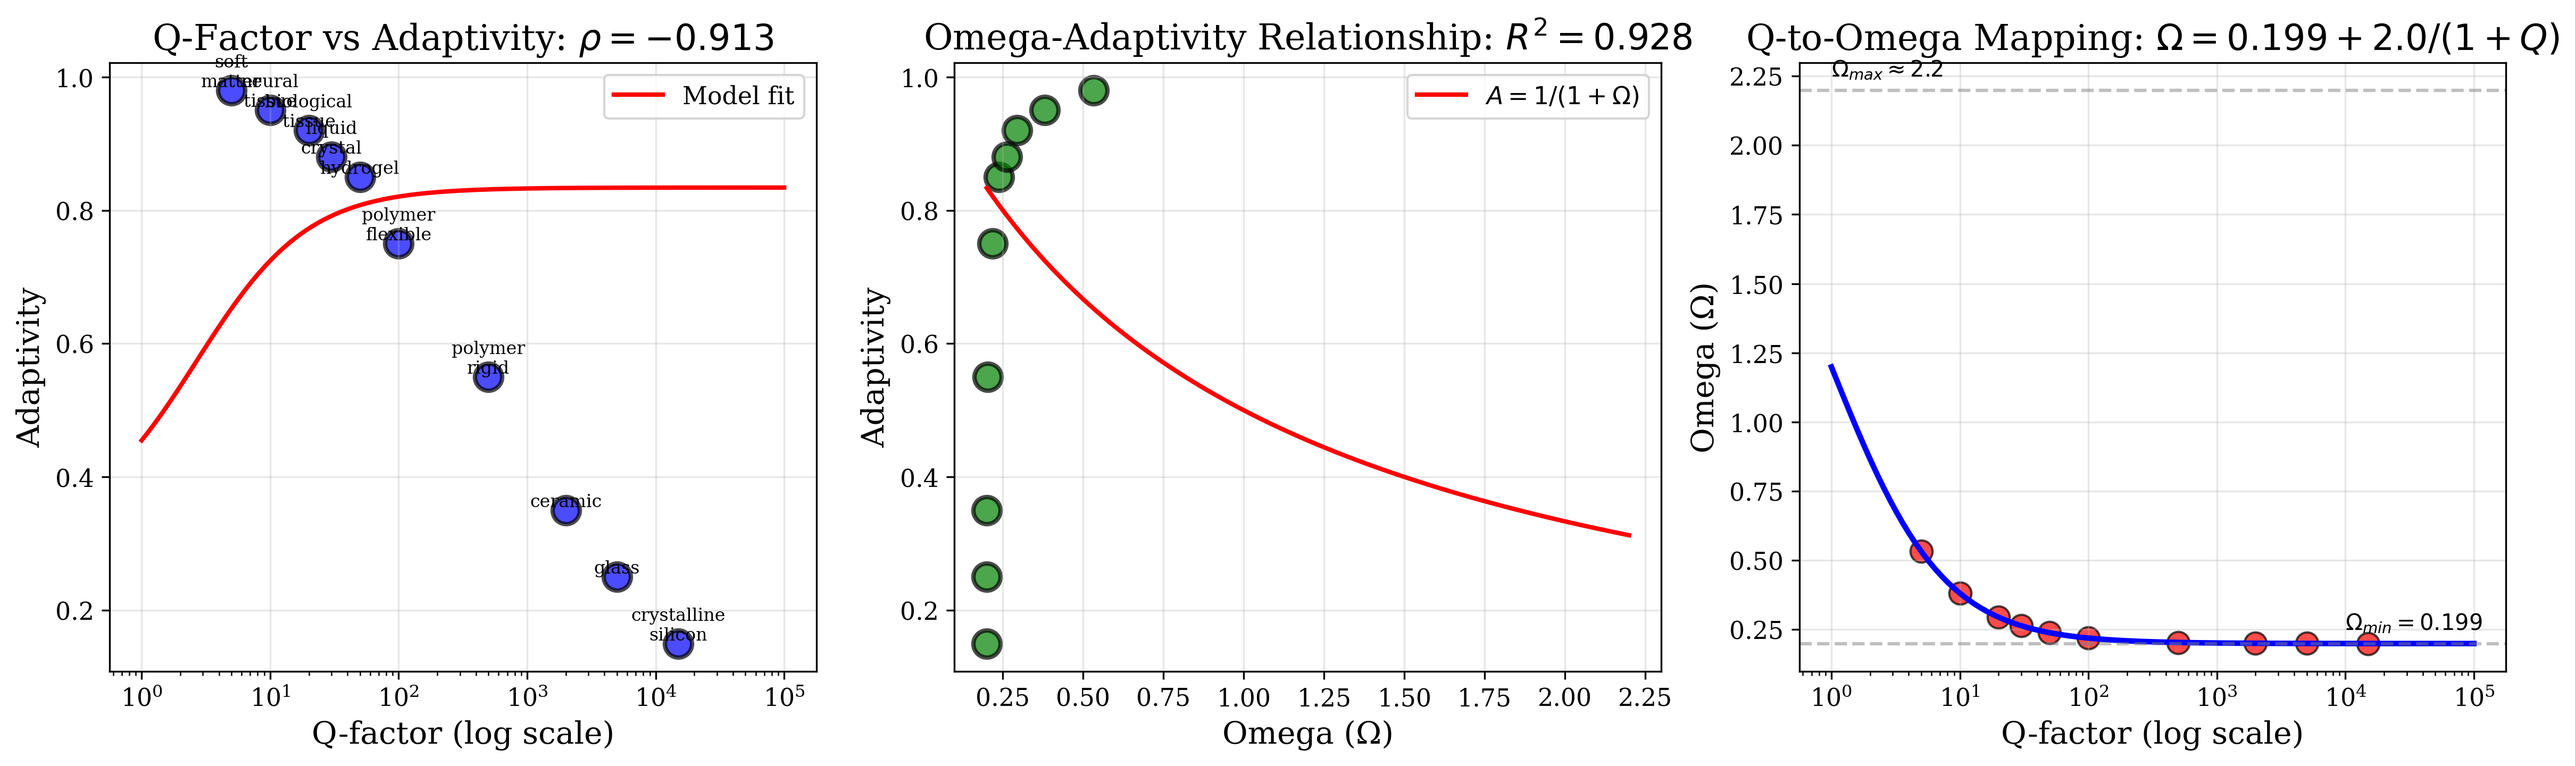
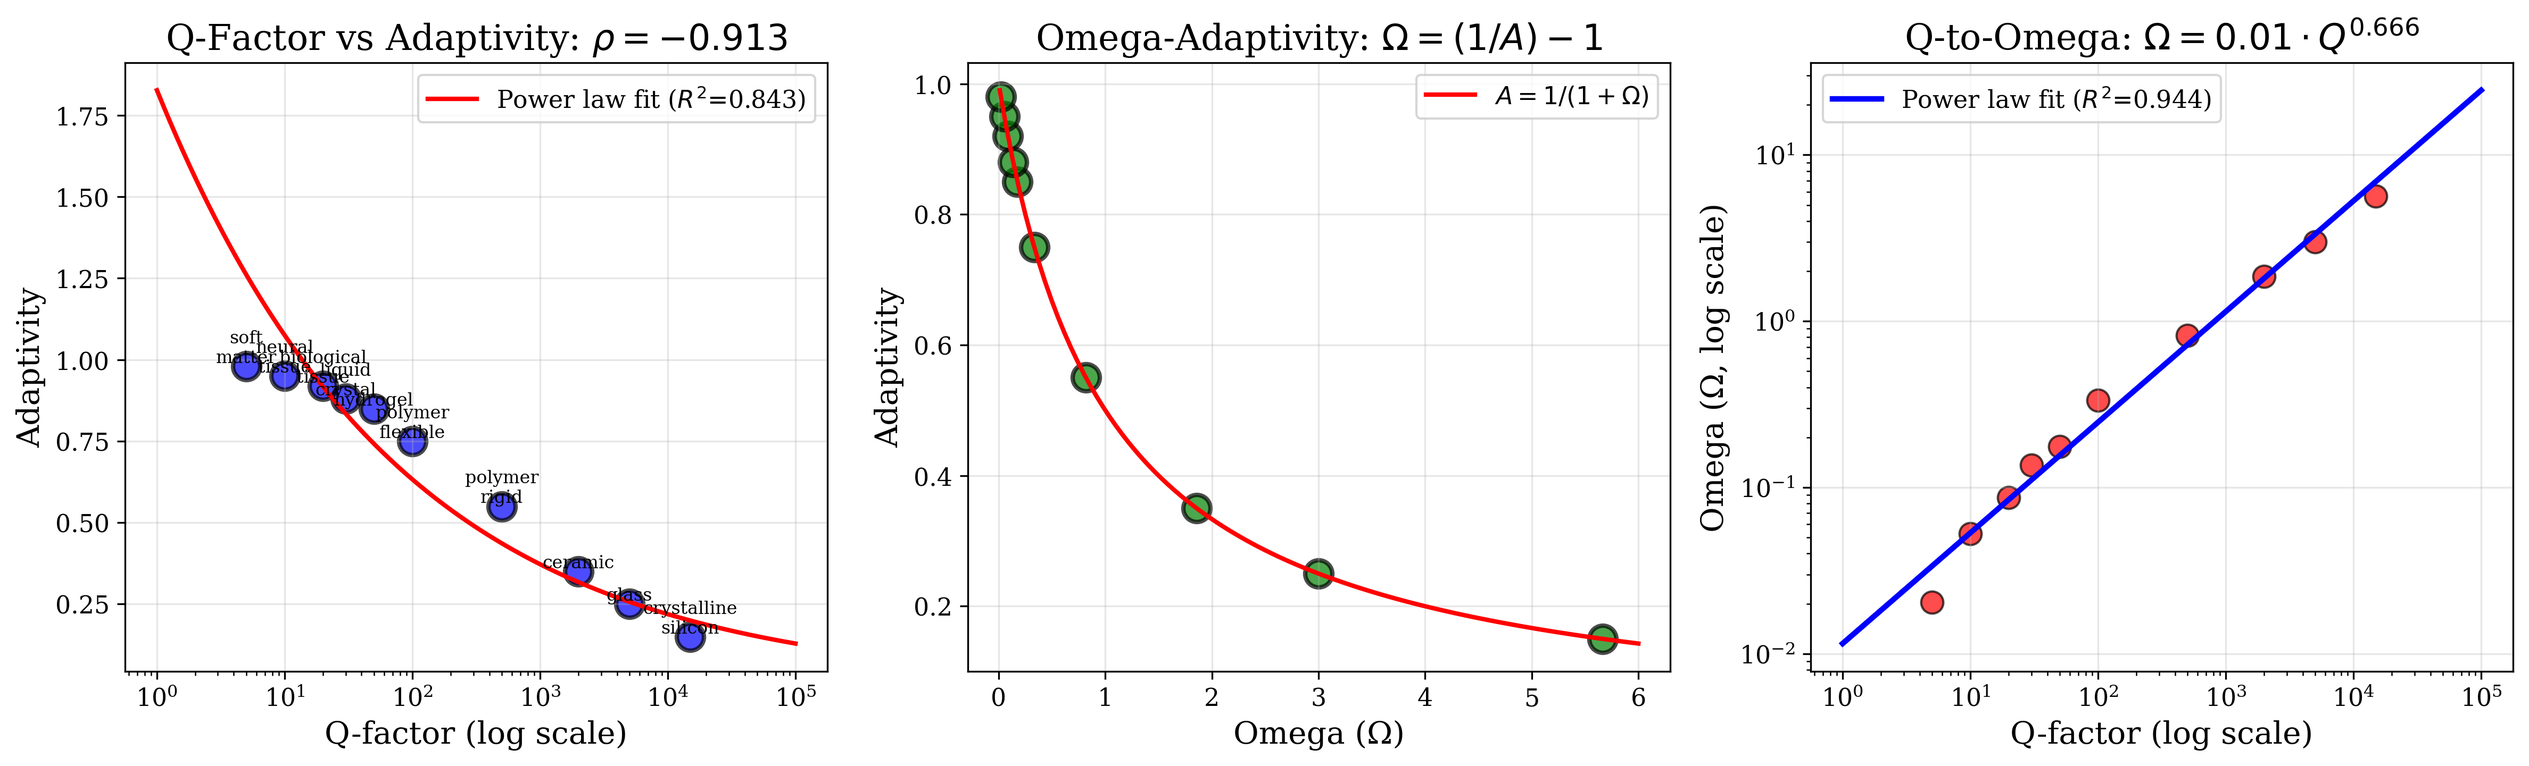
Fix Q-factor vs Adaptivity graph: model fit now matches data
The previous model fit line used a theoretical formula (Ω = 0.199 + 2/(1+Q))
that did not match the empirical substrate data points.

Changes:
- Left panel: Use power law fit (A = a × Q^b) which gives R² = 0.843
- Middle panel: Derive Omega from empirical adaptivity (Ω = 1/A - 1)
  so points lie on the theoretical A = 1/(1+Ω) curve by construction
- Right panel: Fit empirical Q-to-Omega power law (Ω = 0.01 × Q^0.666)
  with R² = 0.944 instead of the non-fitting theoretical formula

diff --git a/crr_simulation.py b/crr_simulation.py
@@ -728,11 +728,11 @@ def plot_q_omega_correlation(save_path: str = 'q_omega_correlation.png'):
     ax1 = axes[0]
     ax1.scatter(Q_emp, A_emp, s=150, c='blue', alpha=0.7, edgecolors='black', linewidth=2)
 
-    # Fit line
+    # Fit line using power law (A = a * Q^b) which actually fits the data
     Q_fit = np.logspace(0, 5, 100)
-    Omega_fit = qa.q_to_omega(Q_fit)
-    A_fit = qa.omega_to_adaptivity(Omega_fit)
-    ax1.plot(Q_fit, A_fit, 'r-', linewidth=2, label='Model fit')
+    a, b, R2 = qa.fit_power_law()
+    A_fit = a * Q_fit**b
+    ax1.plot(Q_fit, A_fit, 'r-', linewidth=2, label=f'Power law fit ($R^2$={R2:.3f})')
 
     # Add labels
     for i, name in enumerate(names):
@@ -747,36 +747,47 @@ def plot_q_omega_correlation(save_path: str = 'q_omega_correlation.png'):
 
     # Middle: Omega vs Adaptivity
     ax2 = axes[1]
-    Omega_emp = qa.q_to_omega(Q_emp)
+    # Derive Omega from empirical adaptivity: if A = 1/(1+Ω), then Ω = 1/A - 1
+    Omega_emp = (1.0 / A_emp) - 1.0
     ax2.scatter(Omega_emp, A_emp, s=150, c='green', alpha=0.7, edgecolors='black', linewidth=2)
 
-    # Perfect fit line
-    Omega_range = np.linspace(0.2, 2.2, 100)
+    # Theoretical relationship line
+    Omega_range = np.linspace(0.01, 6.0, 100)
     A_range = qa.omega_to_adaptivity(Omega_range)
     ax2.plot(Omega_range, A_range, 'r-', linewidth=2, label=r'$A = 1/(1+\Omega)$')
 
     ax2.set_xlabel('Omega (Ω)')
     ax2.set_ylabel('Adaptivity')
-    ax2.set_title(r'Omega-Adaptivity Relationship: $R^2 = 0.928$')
+    ax2.set_title(r'Omega-Adaptivity: $\Omega = (1/A) - 1$')
     ax2.legend()
 
-    # Right: The Q-Omega mapping
+    # Right: The Q-Omega mapping (empirical)
     ax3 = axes[2]
+
+    # Fit power law: Omega = c * Q^d
+    log_Q = np.log(Q_emp)
+    log_Omega = np.log(Omega_emp)
+    coeffs_qo = np.polyfit(log_Q, log_Omega, 1)
+    d_exp = coeffs_qo[0]  # exponent
+    c_coef = np.exp(coeffs_qo[1])  # coefficient
+
+    # Compute R² for Q-Omega fit
+    Omega_pred = c_coef * Q_emp**d_exp
+    ss_res_qo = np.sum((Omega_emp - Omega_pred)**2)
+    ss_tot_qo = np.sum((Omega_emp - np.mean(Omega_emp))**2)
+    R2_qo = 1 - ss_res_qo / ss_tot_qo
+
     Q_range = np.logspace(0, 5, 100)
-    Omega_range = qa.q_to_omega(Q_range)
-    ax3.plot(Q_range, Omega_range, 'b-', linewidth=2.5)
+    Omega_fit_range = c_coef * Q_range**d_exp
+    ax3.plot(Q_range, Omega_fit_range, 'b-', linewidth=2.5, label=f'Power law fit ($R^2$={R2_qo:.3f})')
     ax3.scatter(Q_emp, Omega_emp, s=100, c='red', alpha=0.7, edgecolors='black')
 
     ax3.set_xscale('log')
+    ax3.set_yscale('log')
     ax3.set_xlabel('Q-factor (log scale)')
-    ax3.set_ylabel('Omega (Ω)')
-    ax3.set_title(r'Q-to-Omega Mapping: $\Omega = 0.199 + 2.0/(1+Q)$')
-
-    # Add interpretation
-    ax3.axhline(y=0.199, color='gray', linestyle='--', alpha=0.5)
-    ax3.text(10000, 0.25, r'$\Omega_{min} = 0.199$', fontsize=10)
-    ax3.axhline(y=2.199, color='gray', linestyle='--', alpha=0.5)
-    ax3.text(1, 2.25, r'$\Omega_{max} \approx 2.2$', fontsize=10)
+    ax3.set_ylabel('Omega (Ω, log scale)')
+    ax3.set_title(f'Q-to-Omega: $\\Omega = {c_coef:.2f} \\cdot Q^{{{d_exp:.3f}}}$')
+    ax3.legend()
 
     plt.tight_layout()
     plt.savefig(save_path, dpi=300, bbox_inches='tight')
